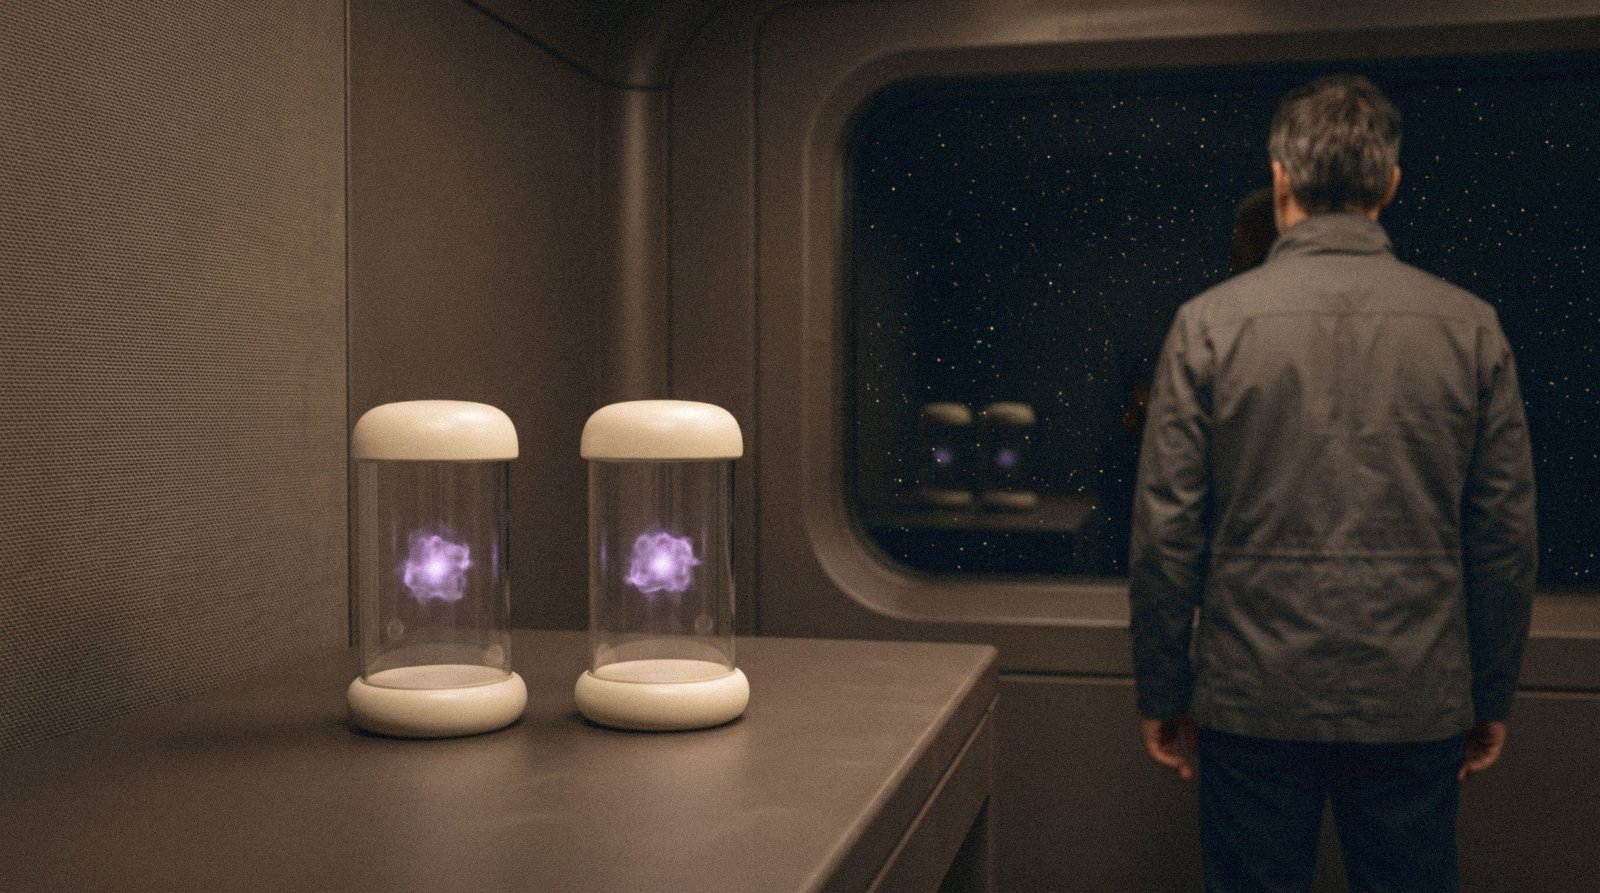
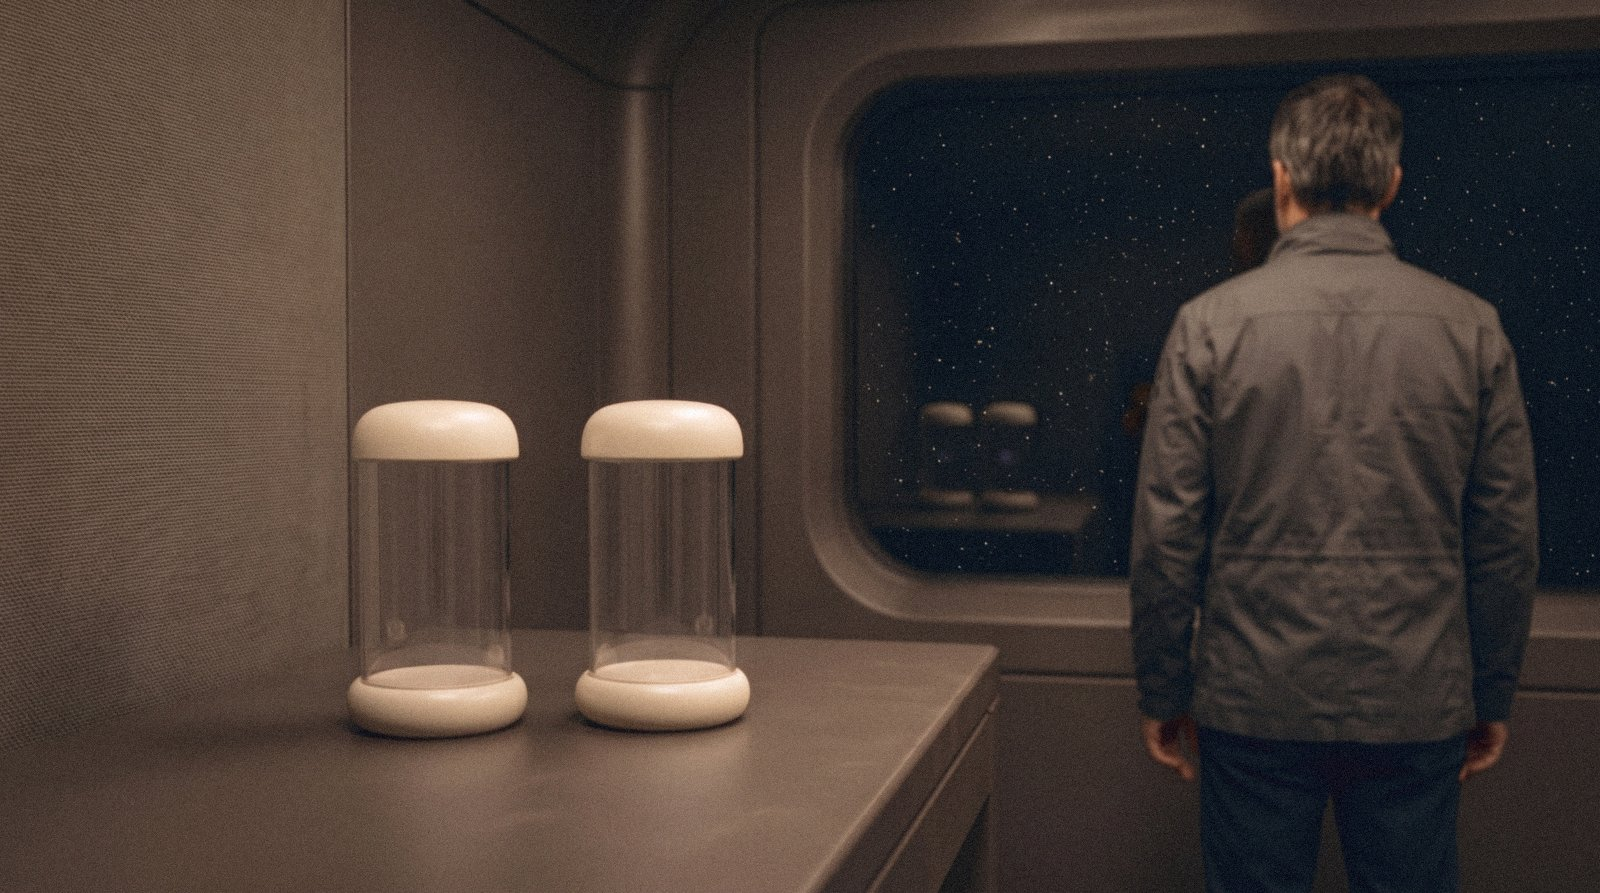
S01E00C07: the clocks match the hero
No violet glow in the two clocks or their reflection; readouts stay turned
away as the chapter has them. Dermot's "Yes, match it".

Changed region(s): [[0.375, 0.5745, 0.4375, 0.6652], [0.25, 0.5745, 0.3125, 0.6954]]

diff --git a/src/seasons/s01/e00/s01e00c07.md b/src/seasons/s01/e00/s01e00c07.md
@@ -11,7 +11,7 @@ timestamp: "2825 UCSD, Late Autumn — a thirty-one-hour window, and the hour af
 location: "A boundary-proximate post on the outward frontier, the record does not name which — the operations watch, and the Starwarden's viewport"
 description: "A year before Season 1, at another post with two clocks. A dominance window that should have turned by fourteen hours runs thirty-one, the approach's divergence climbs past four minutes, and a Union salvage hull working at the permitted edge is brought in on paired callouts. In the hour after the turn the watch logs a band the anomaly register has a name for, and the Starwarden, at his viewport with the window still to write up, has a question put to him that he does not file."
 image: "s01e00c07.jpg"
-image_alt: "Two identical clocks stand side by side on a bare bench in a dim room of warm dark composite: each a clear glass cylinder under a rounded cream cap on a rounded cream base, with a small violet glow of trapped atoms at its centre. Beyond them, out of focus, a man with greying dark hair in a grey jacket stands with his back to the camera at a wide round-cornered viewport full of stars, where the two clocks show faintly as a reflection in the dark glass."
+image_alt: "Two identical clocks stand side by side on a bare bench in a dim room of warm dark composite: each a clear glass cylinder under a rounded cream cap on a rounded cream base, nothing glowing in the glass, its readout turned away. Beyond them, out of focus, a man with greying dark hair in a grey jacket stands with his back to the camera at a wide round-cornered viewport full of stars, where the two clocks show faintly as a reflection in the dark glass."
 canon_facts:
   - "In the late autumn of 2825 UCSD the Type II interface monitored by Starwarden Luke Valerius's post held one dominance window for thirty-one hours, against a logged maximum at that post of fourteen. Chronometry divergence in the approach rose from the post's standing figure of twenty-six seconds to four minutes and nine, and returned to twenty-six within the hour of the turn. The Union-registered salvage hull Fair Return, four aboard, working under permit at the approach's edge, lost timing lock in the twenty-ninth hour and was brought in on paired callouts, one tether cut, nobody hurt and nothing lost."
   - "In the hour after the turn the post's field instruments logged a narrow, settled band of harmonic distortion lasting about fourteen minutes, matching a field-signature entry in the Survey Corps' anomaly register. Valerius filed it as an unclassified transient by band and duration with the register entry attached and its name left off. The post's log holds the window, the four crew statements and the transient, and nothing else of that hour."

diff --git a/story-bible/image-prompts.md b/story-bible/image-prompts.md
@@ -6338,3 +6338,19 @@ Dermot's *"Yes replace the Season 1 hero image please"*, after S01E01C01's clock
 > Change only the two clocks on the wall, one above each door, keeping each in exactly the same place, at the same size, on the same short rounded cream bracket, as the same kind of instrument: an upright clear glass cylinder under a rounded cream cap, standing on a smooth rounded cream base. Remove the violet glowing cloud from inside both cylinders: the glass is clear and quiet, with nothing glowing inside, so that nothing in the frame glows. Make the dark recessed readout window on the front of each base much larger, a broad matte panel filling most of the front of the base, so that each reads at a glance as the face of a clock. Both readout windows are matte, unlit and completely blank: no digits, no numerals, no text, no light.
 >
 > No other new objects, no screens, no lettering. A documentary photograph, not a render.
+
+## 2026-11-24 — S01E00C07's clocks match the hero (Opus, desktop)
+
+Dermot's *"Yes, match it"*, after the Season 1 hero's clocks lost their glow the same day (#2115). The readouts stay turned away, because the chapter has *nothing to read on them from where he stood*; only the violet glow goes.
+
+### chapters/s01e00c07.jpg — re-filed 24 November 2026
+- **Kind:** an edit of the filed frame.
+- **Source:** the filed `s01e00c07.jpg` only.
+- **Run:** `scripts/image-edit.js`, round 1 of 1, two takes, both clean; take 2 filed at 1600 px, strength 1, provenance generated.
+- **Prompt:**
+
+> Edit the first image, a photograph. Do not reframe, crop, zoom or redraw the room. Keep everything exactly as it is: the man standing with his back to the camera at the viewport, his grey hair, his grey jacket and pose; the wide round-cornered viewport onto the starfield; the dim warm dark charcoal-brown room, its woven wall at the left and its coving; the bench and the two clocks on it, each an upright clear glass cylinder under a rounded cream cap on a rounded cream base, in exactly the same place and size, their readouts still facing away so nothing can be read on them; the framing, light, focus and grain.
+>
+> Change only one thing: remove the violet glowing cloud from inside both glass cylinders, so the glass is clear and quiet with nothing glowing inside it, and remove the two small violet glows from their faint reflection in the dark glass of the viewport. Nothing in the frame glows.
+>
+> No other new objects, no screens, no lettering. A documentary photograph, not a render.

diff --git a/changelog.d/2026-11-24-s01e00c07-clocks-match-the-hero.md b/changelog.d/2026-11-24-s01e00c07-clocks-match-the-hero.md
@@ -1,0 +1,1 @@
+- **S01E00C07's clocks match the hero** (`src/images/chapters/s01e00c07.jpg`, `story-bible/image-prompts.md`, 2026-11-24, Opus, Dermot's *"Yes, match it"*). The two clocks on the bench in *Which One First*, and their reflection in the viewport, no longer glow violet, so every picture of Dock Seven's atomic clocks now agrees. Their readouts stay turned away, as the chapter has them.
